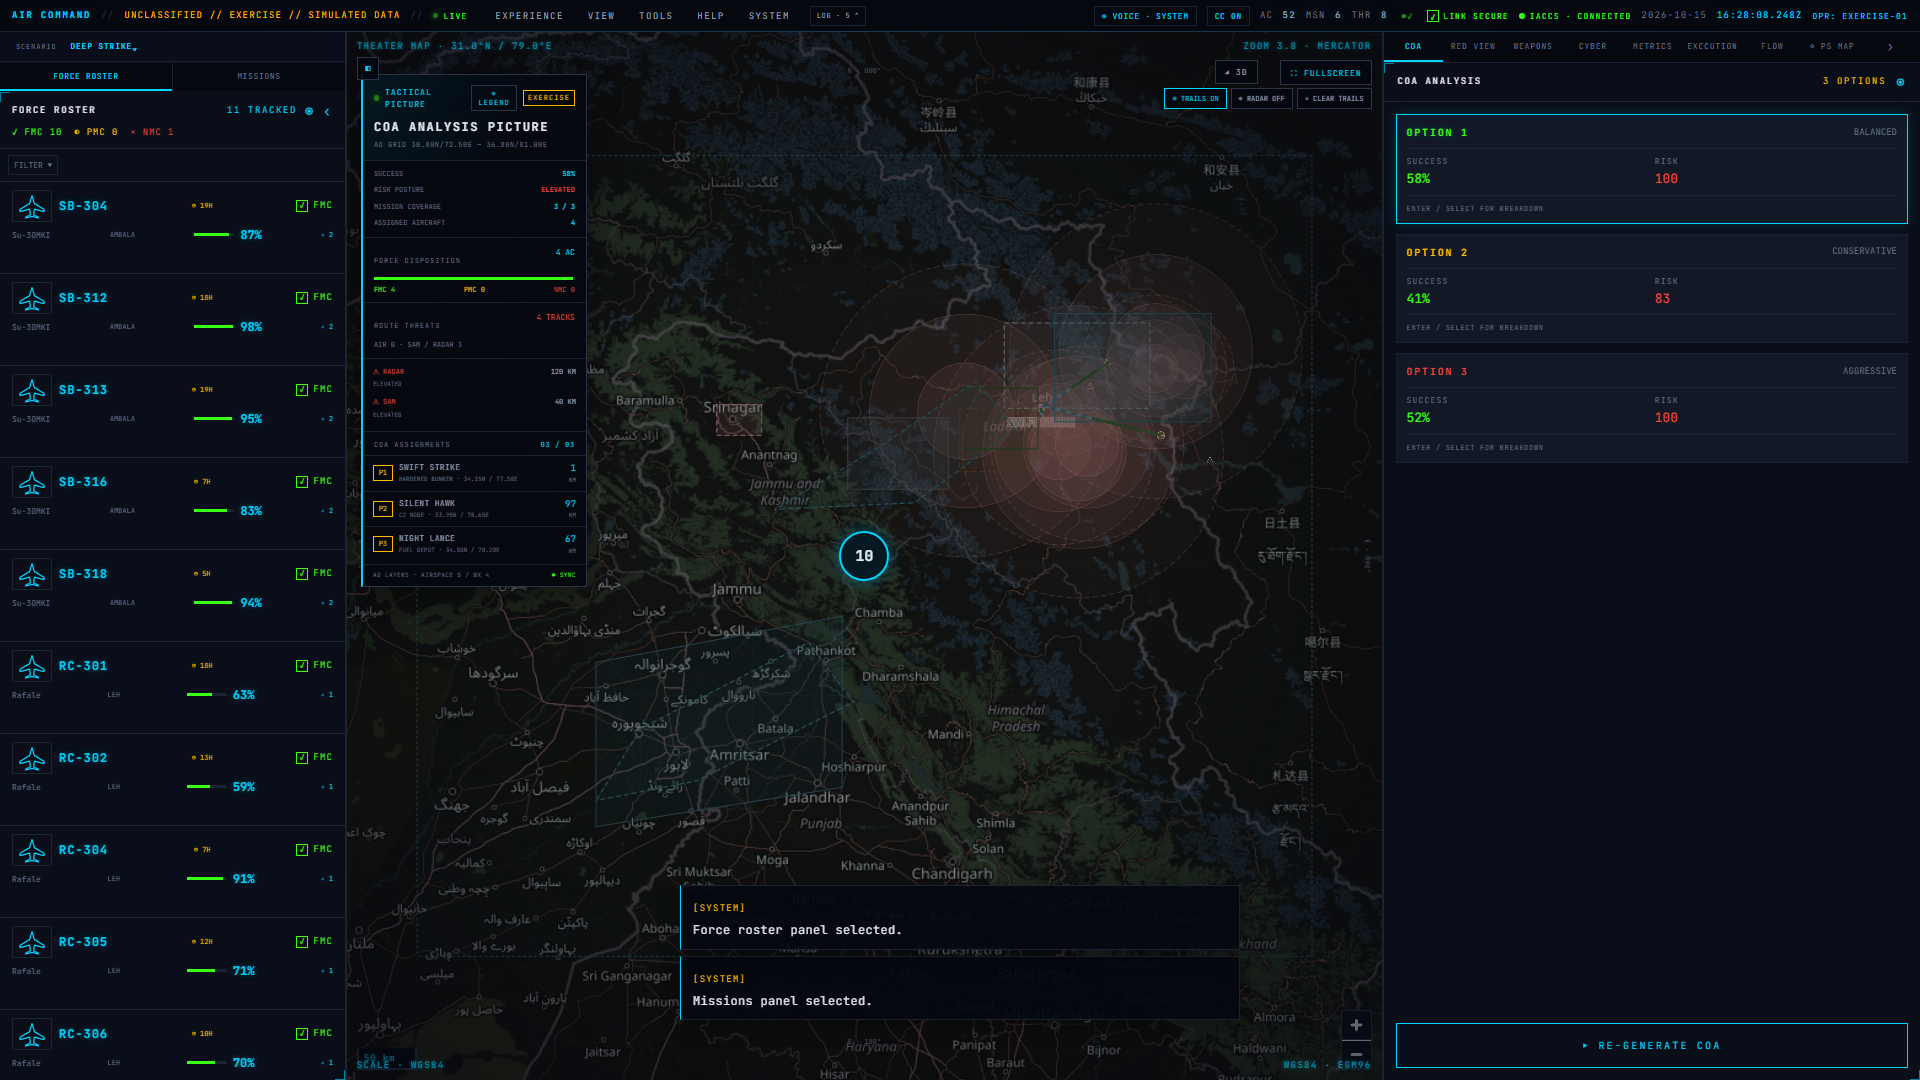
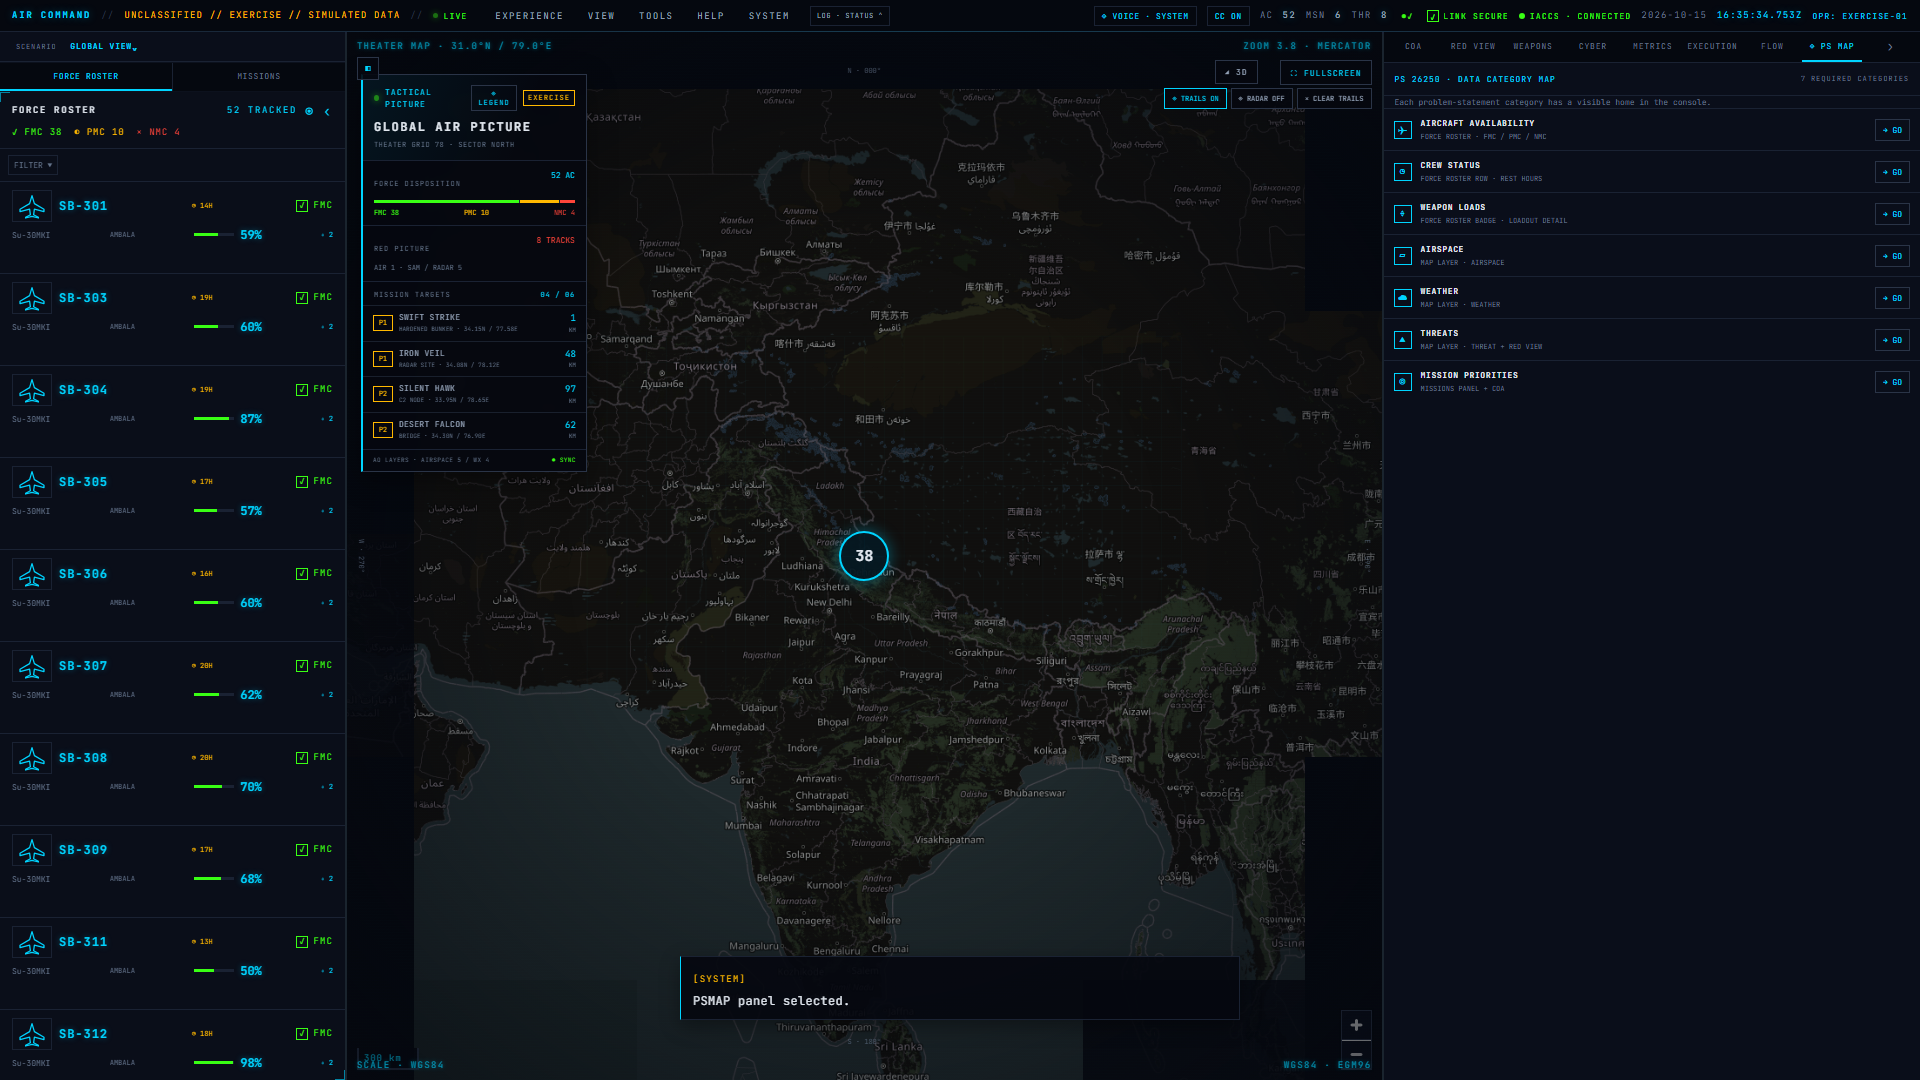
Docs: show all PS categories beside the force roster

diff --git a/README.md b/README.md
@@ -37,7 +37,7 @@ The images below are captured from the local application at 1920×1080. They sho
 
 ![Deep strike scenario](docs/screenshots/submission/02-scenario-deep-strike.png)
 
-### 03 · Force roster
+### 03 · Force roster and PS category map
 
 ![Force roster](docs/screenshots/submission/03-force-roster.png)
 
@@ -141,4 +141,5 @@ All aircraft readiness, crew, weapons inventory, airspace, weather, threat track
 ## Demo recording materials
 
 See [the 35 shot list](docs/demo/SHOT_LIST.md) and [narration script](docs/demo/NARRATION.md). Both describe the application as an exercise prototype and distinguish simulated inputs from live integrations.
+
 
